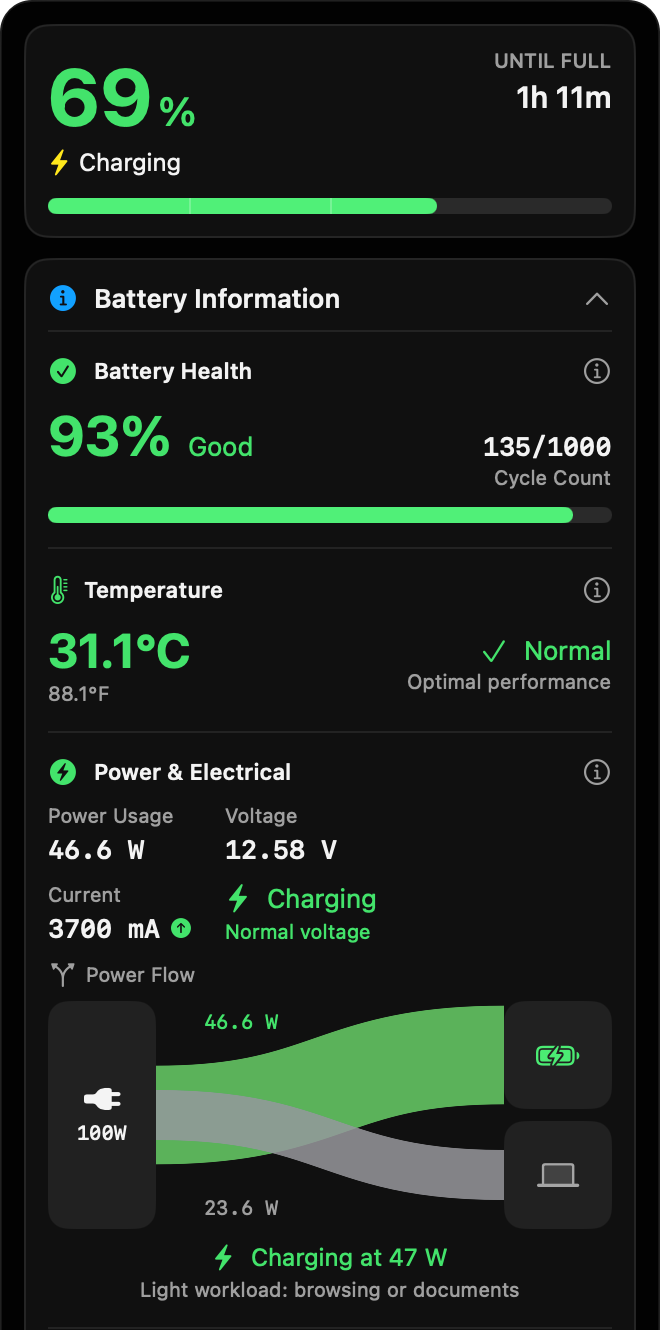
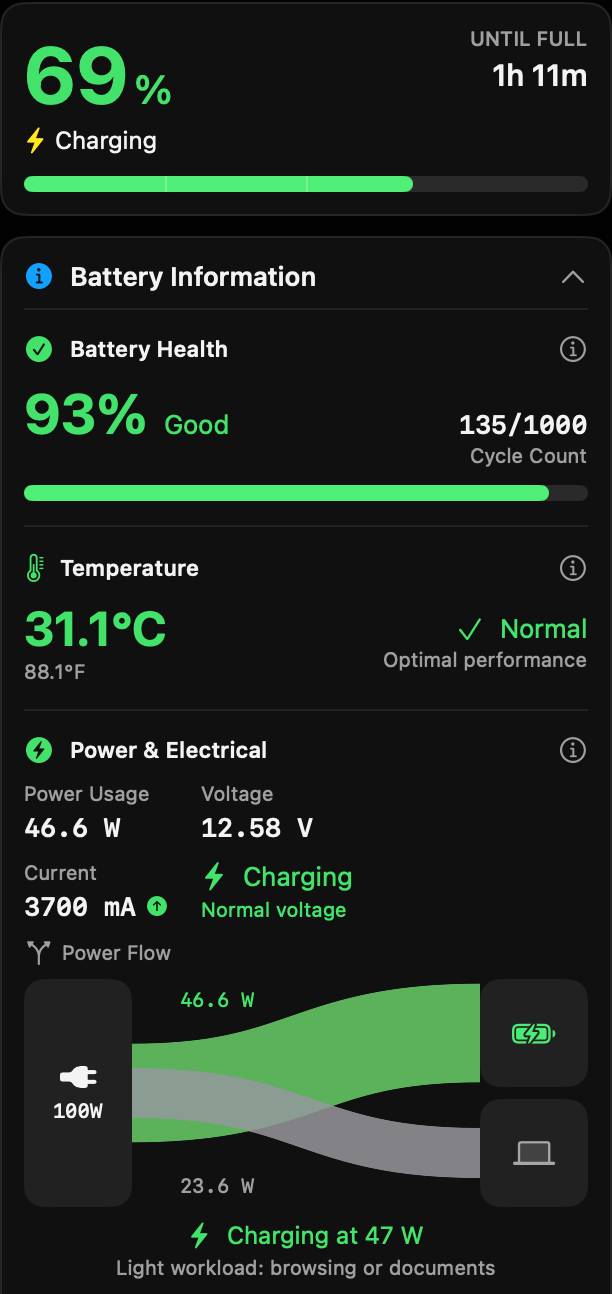
README: the helper prompt comes at first launch; both Login Items pane names; the Launch at Login item; alt text and crop match the screenshot; OrangeDrink as the DMG shows it

diff --git a/README.md b/README.md
@@ -18,11 +18,11 @@ The battery indicator built into macOS warns you only at 10% and 5%, and those l
 
 By default, press ⌃⌥J from anywhere to open the Orange Drink panel.
 
-<img src="docs/images/panel.png" alt="The Orange Drink panel: charge, battery health, temperature, power flow, and connected devices" width="330">
+<img src="docs/images/panel.png" alt="The Orange Drink panel: charge and time until full, battery health and cycle count, temperature, and where the adapter's power goes" width="306">
 
 ## Download
 
-[Download the latest Orange Drink](https://github.com/promptctl/orange-drink/releases/latest), open the disk image, and drag Orange Drink to Applications. It needs a Mac with Apple Silicon running macOS 14 or later. The app is signed and notarized by Apple; the first time you open it, macOS asks you to confirm that you want to open an app downloaded from the internet.
+[Download the latest Orange Drink](https://github.com/promptctl/orange-drink/releases/latest), open the disk image, and drag OrangeDrink to Applications. It needs a Mac with Apple Silicon running macOS 14 or later. The app is signed and notarized by Apple; the first time you open it, macOS asks you to confirm that you want to open an app downloaded from the internet.
 
 To update, choose **Check for Updates…** in the panel. When a new version is out, choose **Install Update**, and Orange Drink installs it and reopens.
 
@@ -30,7 +30,7 @@ To update, choose **Check for Updates…** in the panel. When a new version is o
 
 macOS may ask you to allow Orange Drink these, each for one purpose:
 
-- **Charge limit and Low Power Mode:** macOS asks you to allow a small helper in System Settings, under General > Login Items. Pausing charging and switching Low Power Mode need privileges an ordinary app doesn't have, and the helper does only those two things.
+- **Helper (charge limit and Low Power Mode):** on first launch, macOS asks you to allow a small helper. It appears in System Settings under General > Login Items (Login Items & Extensions on macOS 15 and later). Controlling charging and switching Low Power Mode need privileges an ordinary app doesn't have, and the helper does only those. If you also turn on **Launch at Login**, Orange Drink itself is listed there as a second item.
 - **Bluetooth:** reads the battery levels of your paired Bluetooth devices.
 - **Accessibility:** closes macOS's own low battery notifications, so you see Orange Drink's alerts instead. This is used only while **Dismiss macOS Battery Notifications** is on in the General settings.
 
